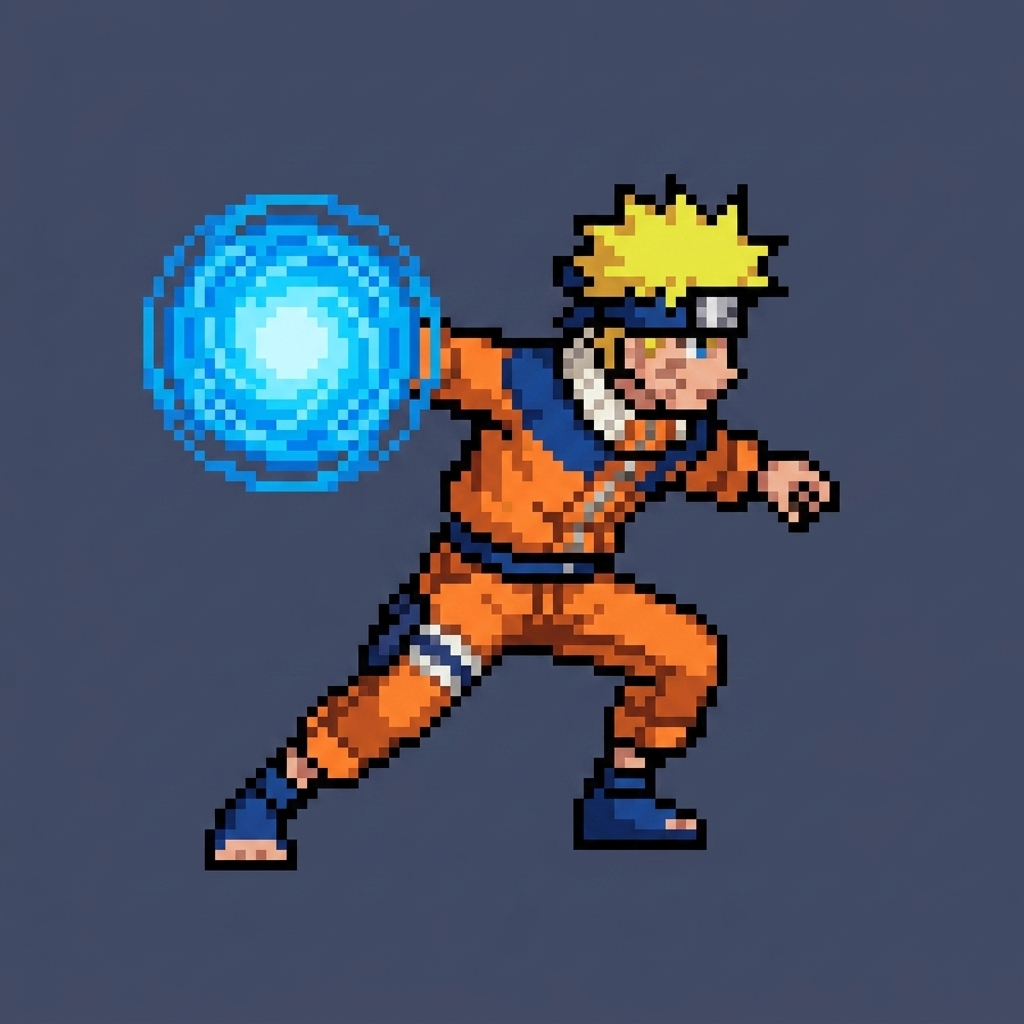
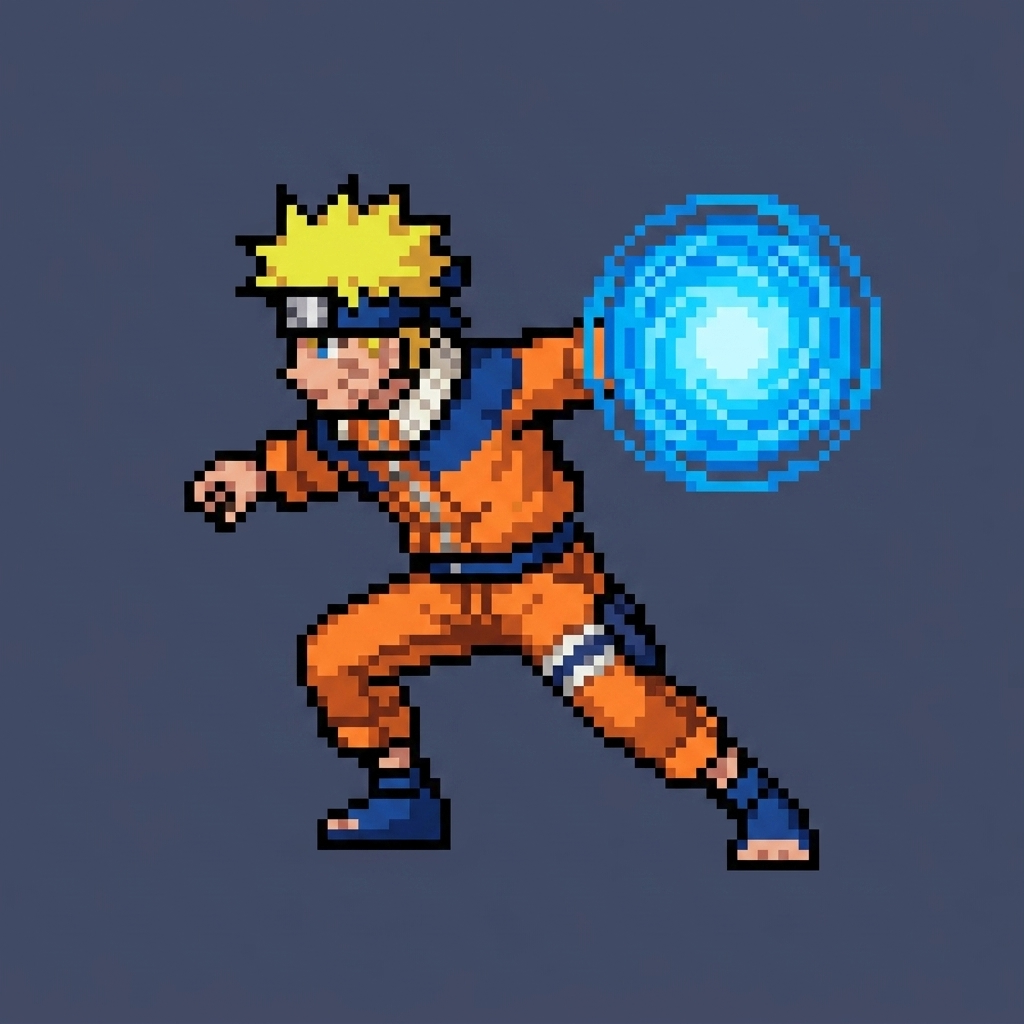
fix(akasha): attaques arcade harmonisées vers la droite
- flip horizontal de Rasengan + Rasenshuriken (regardaient à gauche) → toutes les
  techniques + les sprites idle orientés à droite (cohérent platformer/fighter)
- cache-bust v6

Changed region(s): [[0.125, 0.1562, 0.875, 0.875]]

diff --git a/components/akasha/ArcadeMoves.tsx b/components/akasha/ArcadeMoves.tsx
@@ -19,7 +19,7 @@ const scanlines = 'repeating-linear-gradient(0deg, rgba(0,0,0,0.32) 0px, rgba(0,
 const MONO = 'ui-monospace, "SFMono-Regular", Menlo, monospace';
 // Les sprites sont régénérés sous le MÊME nom de fichier → on casse le cache navigateur/CDN
 // à chaque itération (bump à incrémenter quand on régénère les anims).
-const ASSET_V = 'v5';
+const ASSET_V = 'v6';
 
 function Cmd({ command }: { command: string }) {
   return (
